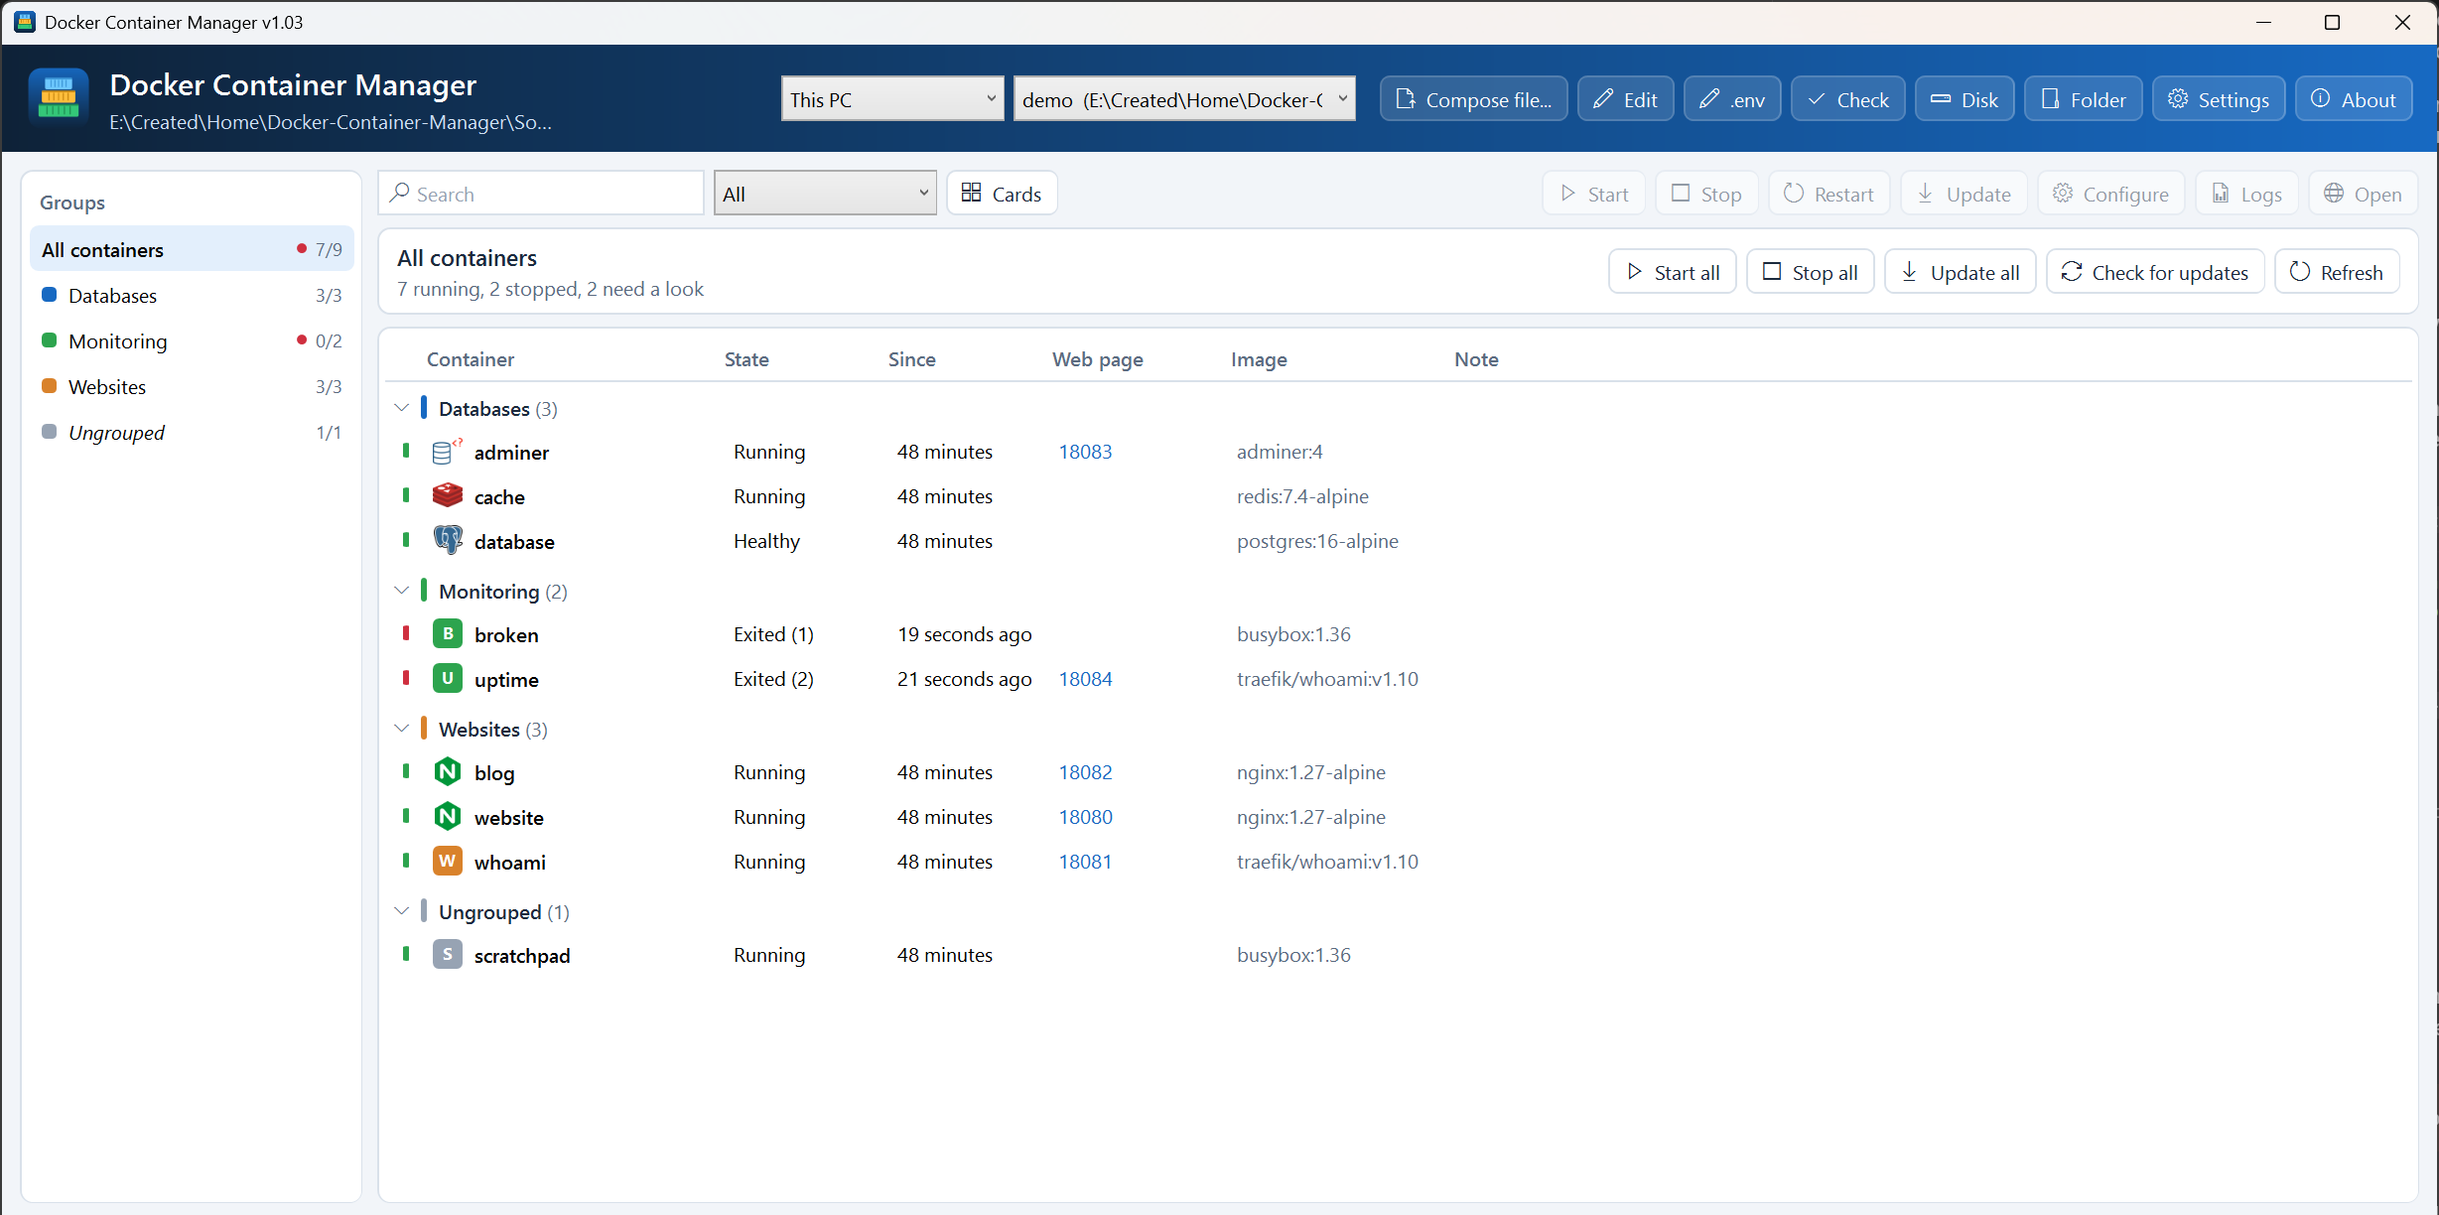
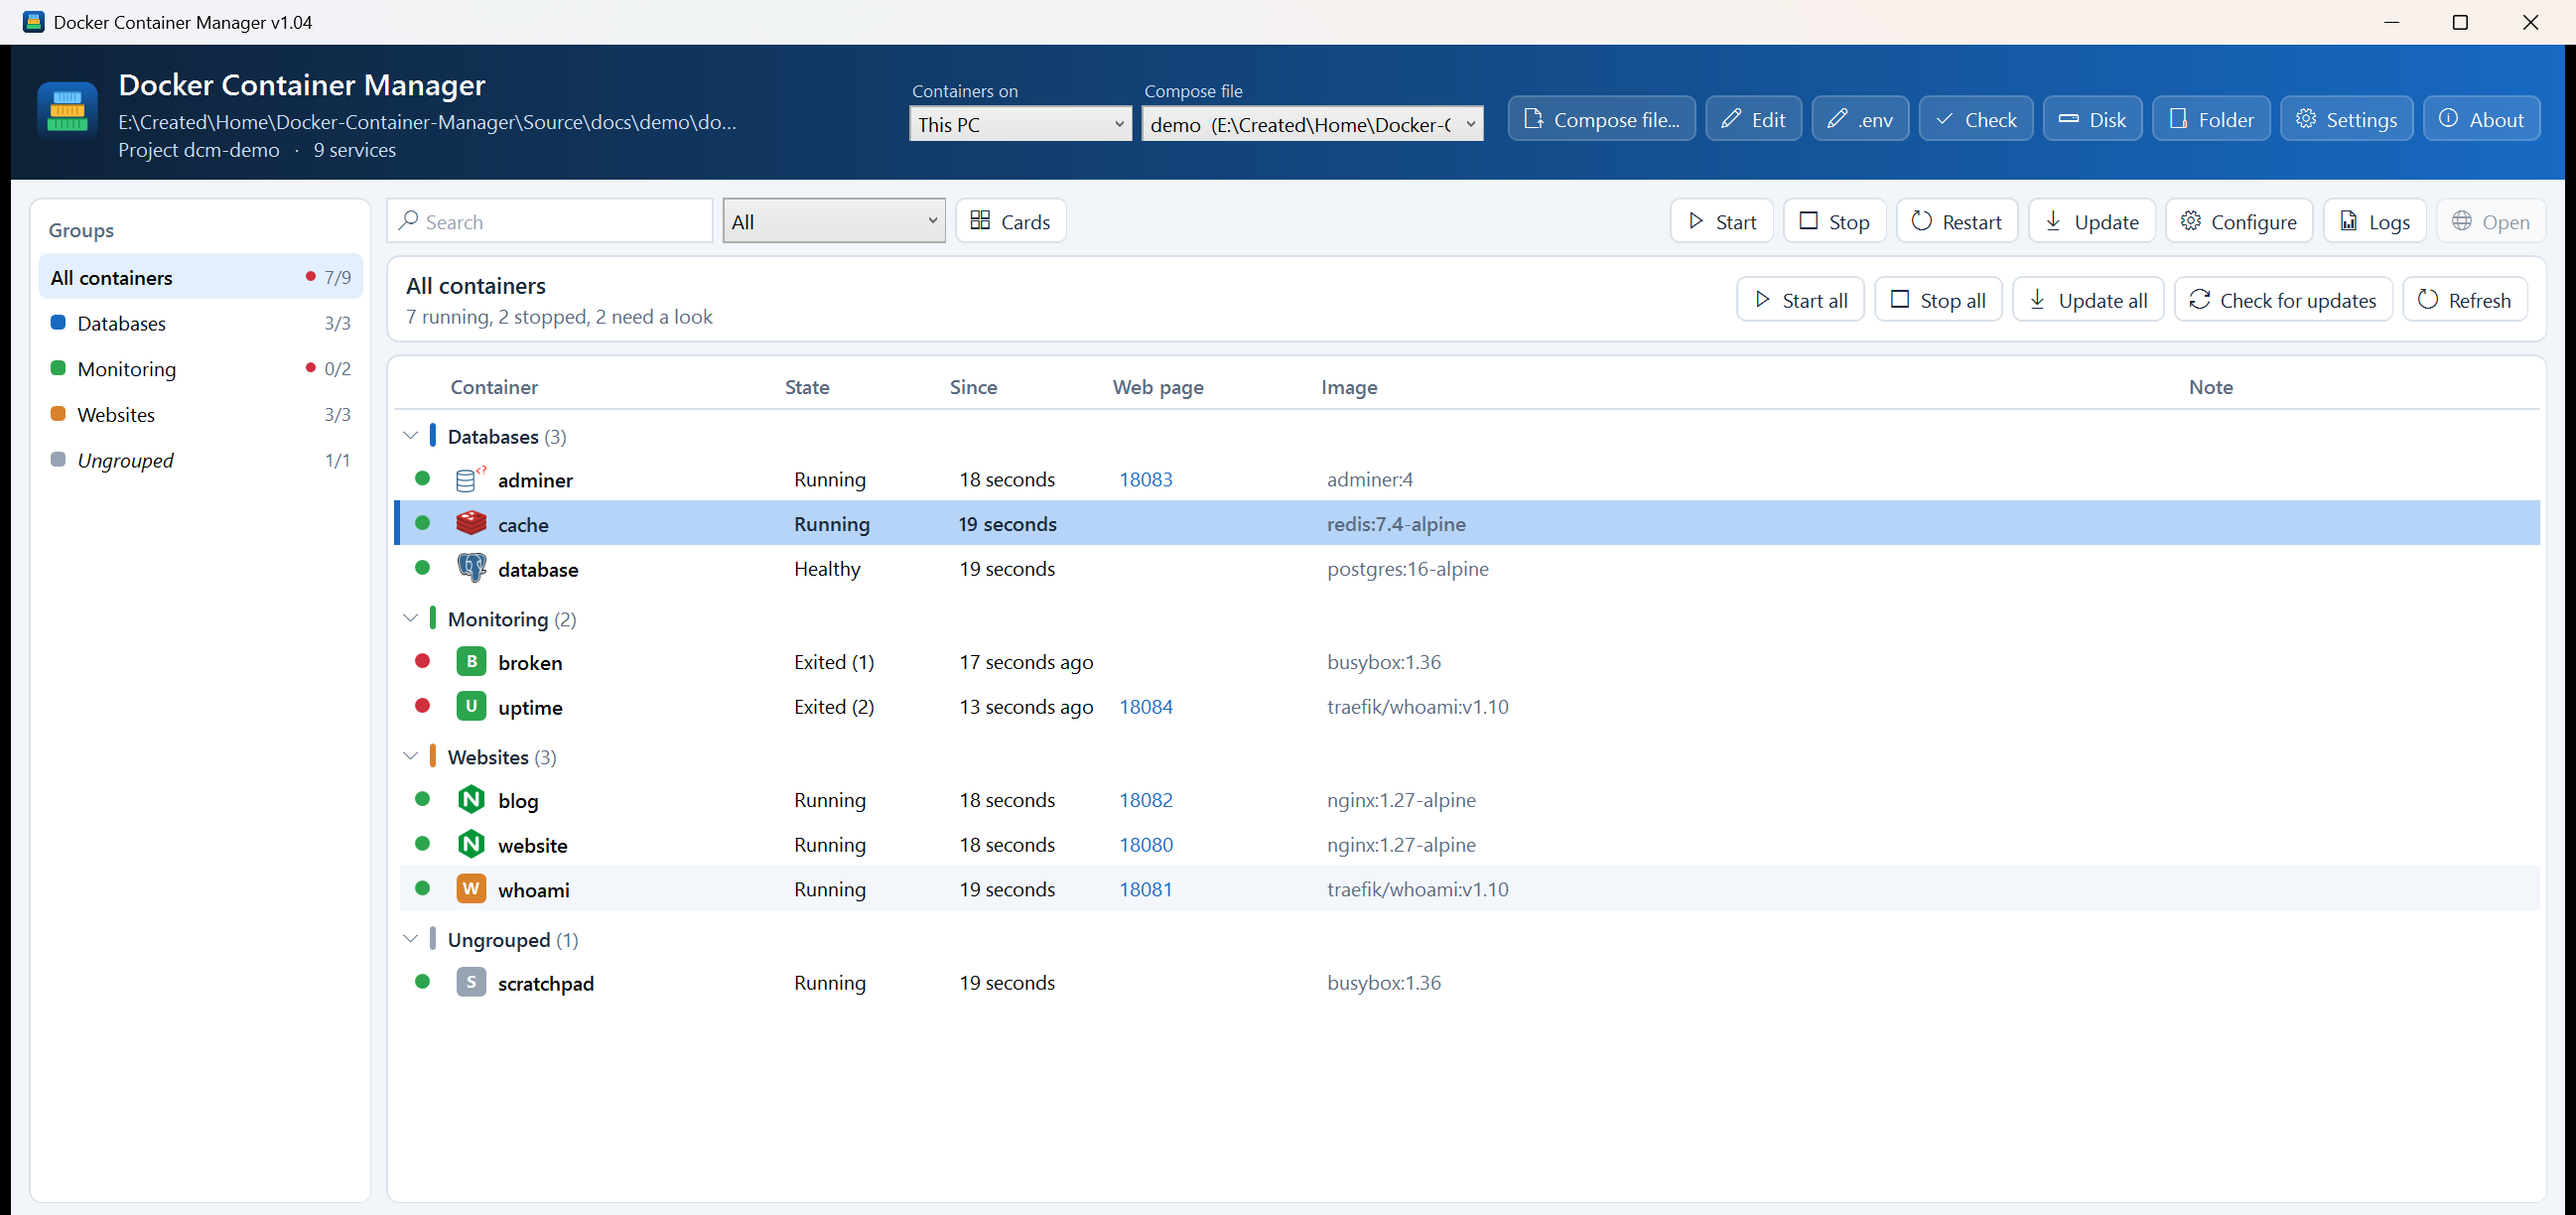
Docker Container Manager v1.04
Clearer header: captions on the machine and compose file lists, Send next to "Send from:", and the path and project on their own lines. Each machine remembers its own compose file. Selected rows are fully highlighted in every list, the Image column fills the spare width, and the Note column and Settings window are wider so nothing is cut off. New README screenshot.

Claude-Session: https://claude.ai/code/session_01RoDiwpGkRVACg8CouXMf92

diff --git a/README.md b/README.md
@@ -6,7 +6,7 @@
 
 Run and organise the containers in your Docker Compose file, in groups, from one Windows window.
 
-![Version](https://img.shields.io/badge/version-v1.03-blue) ![Platform](https://img.shields.io/badge/platform-Windows-0078D6) ![PowerShell](https://img.shields.io/badge/PowerShell-5.1%20%7C%207-5391FE) ![Licence](https://img.shields.io/badge/licence-MIT-green) ![Last commit](https://img.shields.io/github/last-commit/jason4bury/Docker-Container-Manager)
+![Version](https://img.shields.io/badge/version-v1.04-blue) ![Platform](https://img.shields.io/badge/platform-Windows-0078D6) ![PowerShell](https://img.shields.io/badge/PowerShell-5.1%20%7C%207-5391FE) ![Licence](https://img.shields.io/badge/licence-MIT-green) ![Last commit](https://img.shields.io/github/last-commit/jason4bury/Docker-Container-Manager)
 
 ## ✨ Features
 
@@ -49,7 +49,7 @@ The screenshot uses the demo project in [`docs/demo/`](docs/demo/docker-compose.
 
 ## 📦 Installation
 
-**Exe:** download `Docker Container Manager v1.03.exe` from the [latest release](../../releases/latest) and run it. Put it in `Home\Docker-Container-Manager\Builds\` and the Home Launcher lists it under Windows.
+**Exe:** download `Docker Container Manager v1.04.exe` from the [latest release](../../releases/latest) and run it. Put it in `Home\Docker-Container-Manager\Builds\` and the Home Launcher lists it under Windows.
 
 **Script:** clone this repo and run `Start Docker Container Manager.cmd`. It starts `src\Docker-Container-Manager.ps1` with the execution policy bypassed for that run only.
 
@@ -147,6 +147,8 @@ The list at the top left switches between **This PC** and other machines that ru
 | Project | The compose project name the containers were started with on that machine, if it isn't the folder's name (Synology Container Manager uses the project's name). **Test connection** lists the running projects. |
 | Docker command | Usually `docker`. The app also looks in `/usr/local/bin`, where Synology keeps it. |
 | Web pages on | The address used instead of `localhost` for web pages (the SSH address if empty). |
+
+The two lists at the top are captioned **Containers on** (which machine's Docker the app shows and controls) and **Compose file**. Each machine remembers the compose file on this PC you last used with it. With another machine picked, the compose file box reads **Send from:**, because that machine runs its own copy of the file (in its compose folder); the file on this PC is what **Send** copies there and what **Configure** edits. The usual routine for a NAS: pick it in **Containers on**, edit the master copy (**Edit** or **Configure**), press **Send**, then **Apply changes**.
 
 The app uses Windows' own `ssh.exe` with an SSH key, so it never asks for or stores a password. **SSH key help** in the Machines window shows the one-time setup, and **Test connection** checks it.
 

diff --git a/CHANGELOG.md b/CHANGELOG.md
@@ -6,6 +6,28 @@ All notable changes to this project are documented here. The format follows
 
 ## [Unreleased]
 
+## [1.04] - 2026-11-13
+
+### Changed
+- Each machine remembers its own compose file on this PC, so picking a machine also picks the file
+  you use with it.
+- With another machine picked, the compose file box reads **Send from:**, with a tooltip saying that
+  machine runs its own copy and this file is what Send copies there.
+- Captions above the two lists at the top: **Containers on** (the machine) and **Compose file**, which
+  becomes **Master copy here, sent to NAS** when another machine is picked.
+- The selected container's row is highlighted more strongly (the line at its start stays).
+- The **Send** button sits right next to the compose file list it sends from.
+- The Image column has more room (State and Since are a little narrower), and hovering over an image shows its full name.
+- The compose file path and the project each have their own line under the title, wide enough for a NAS path.
+
+### Fixed
+- Settings window: the **Show app icons** option and the editor path were cut off. The window is
+  wider and the option text is shorter.
+- The project name under the title was cut off. It now has its own line under the compose file path.
+- Selected and hovered rows weren't highlighted in the container list and the Configure, Check and Disk lists; they now are.
+- The Note column was too narrow for "Changed: recreate to apply"; it's wider and shows the full note as a tooltip.
+- In the container list, the Image column now fills the spare width (it was stuck at its narrowest), so full image names show; the other columns no longer start squeezed.
+
 ## [1.03] - 2026-11-12
 
 ### Added
